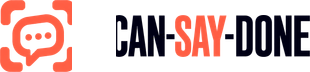
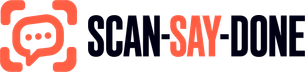
fix(marca): el lockup recupera la S que el recorte se comia
El recorte del wordmark arrancaba en x=825 y el bloque real empieza en 680:
se estaba comiendo 145 px, que eran justo la S de SCAN. En pantalla se leia
CAN-SAY-DONE. Ahora el recorte sale de las franjas vacias reales del activo,
el wordmark queda completo y el archivo mide 305x72 en vez de 310x72.

En el mismo ajuste se corrige el espaciado interno: habia interpretado el
resguardo de 0,5 del manifiesto como separacion entre isotipo y wordmark,
cuando ese resguardo es el margen exterior del lockup. La separacion vuelve a
la del propio activo, 0,153 veces la altura del isotipo.

diff --git a/scansaydone-front/src/components/chrome/site-header.test.tsx b/scansaydone-front/src/components/chrome/site-header.test.tsx
@@ -31,7 +31,7 @@ describe("SiteHeader", () => {
     const brandImage = screen.getByAltText("Scan-Say-Done");
     expect(brandImage).toBeInTheDocument();
     expect(brandImage).toHaveAttribute("src", expect.stringContaining("lockup-nav"));
-    expect(brandImage).toHaveAttribute("width", "310");
+    expect(brandImage).toHaveAttribute("width", "305");
     expect(brandImage).toHaveAttribute("height", "72");
     
     // Verify it's wrapped in a link to home

diff --git a/scansaydone-front/src/components/chrome/site-header.tsx b/scansaydone-front/src/components/chrome/site-header.tsx
@@ -105,7 +105,7 @@ export function SiteHeader() {
             >
               <Image
                 src="/img/marca/lockup-nav.png"
-                width={310}
+                width={305}
                 height={72}
                 alt="Scan-Say-Done"
                 className="h-9 w-auto"
